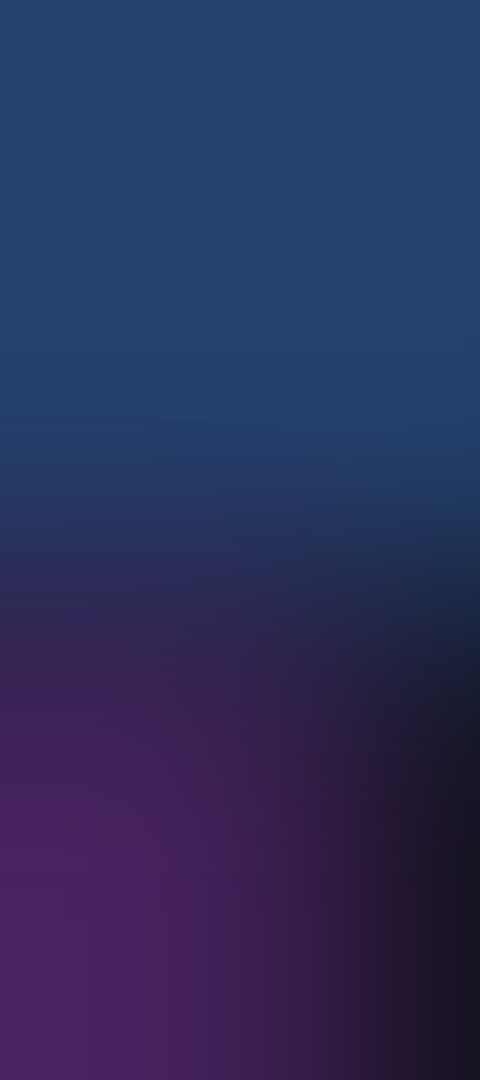
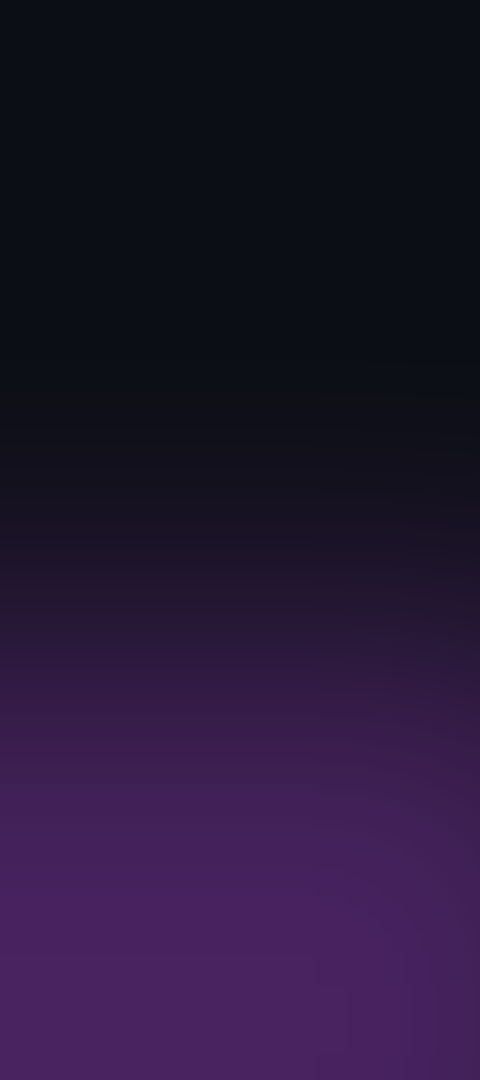
Chat strip and bar use the multi-view screen's own glows; two streams stack beside the chat

diff --git a/tools/make_chat_bg.py b/tools/make_chat_bg.py
@@ -7,7 +7,7 @@ from PIL import Image, ImageFilter
 
 W, H = 1920, 1080
 BG = (0x0B, 0x0E, 0x14)
-GLOWS = [(900, -300, 1300, 900, (0x2E, 0x5A, 0x9A), 0.69, 120), (300, 620, 1500, 900, (0x6A, 0x2E, 0x8A), 0.65, 120)]  # x, y, w, h, colour, opacity, blur
+GLOWS = [(-200, -260, 1100, 760, (0x2E, 0x5A, 0x9A), 0.69, 140), (1000, 640, 1100, 760, (0x6A, 0x2E, 0x8A), 0.65, 140)]  # the same two glows as the multi-view screen behind several streams (app/shell.py wall_screen)
 
 
 def render():

diff --git a/app/multi.py b/app/multi.py
@@ -37,6 +37,8 @@ def tiles(layout, n):
     chat = layout.startswith("c")
     layout, area = layout.lstrip("c"), (W - CHAT_W if layout.startswith("c") else W)
     if layout == "grid":
+        if n == 2 and chat:  # beside the chat strip two streams stack, so each is big
+            return _row(1, 840, 472, M, area) + _row(1, 840, 472, M + 472 + S + G, area)
         if n == 2:
             w = (area - 2 * M - G) // 2
             h = w * 9 // 16
